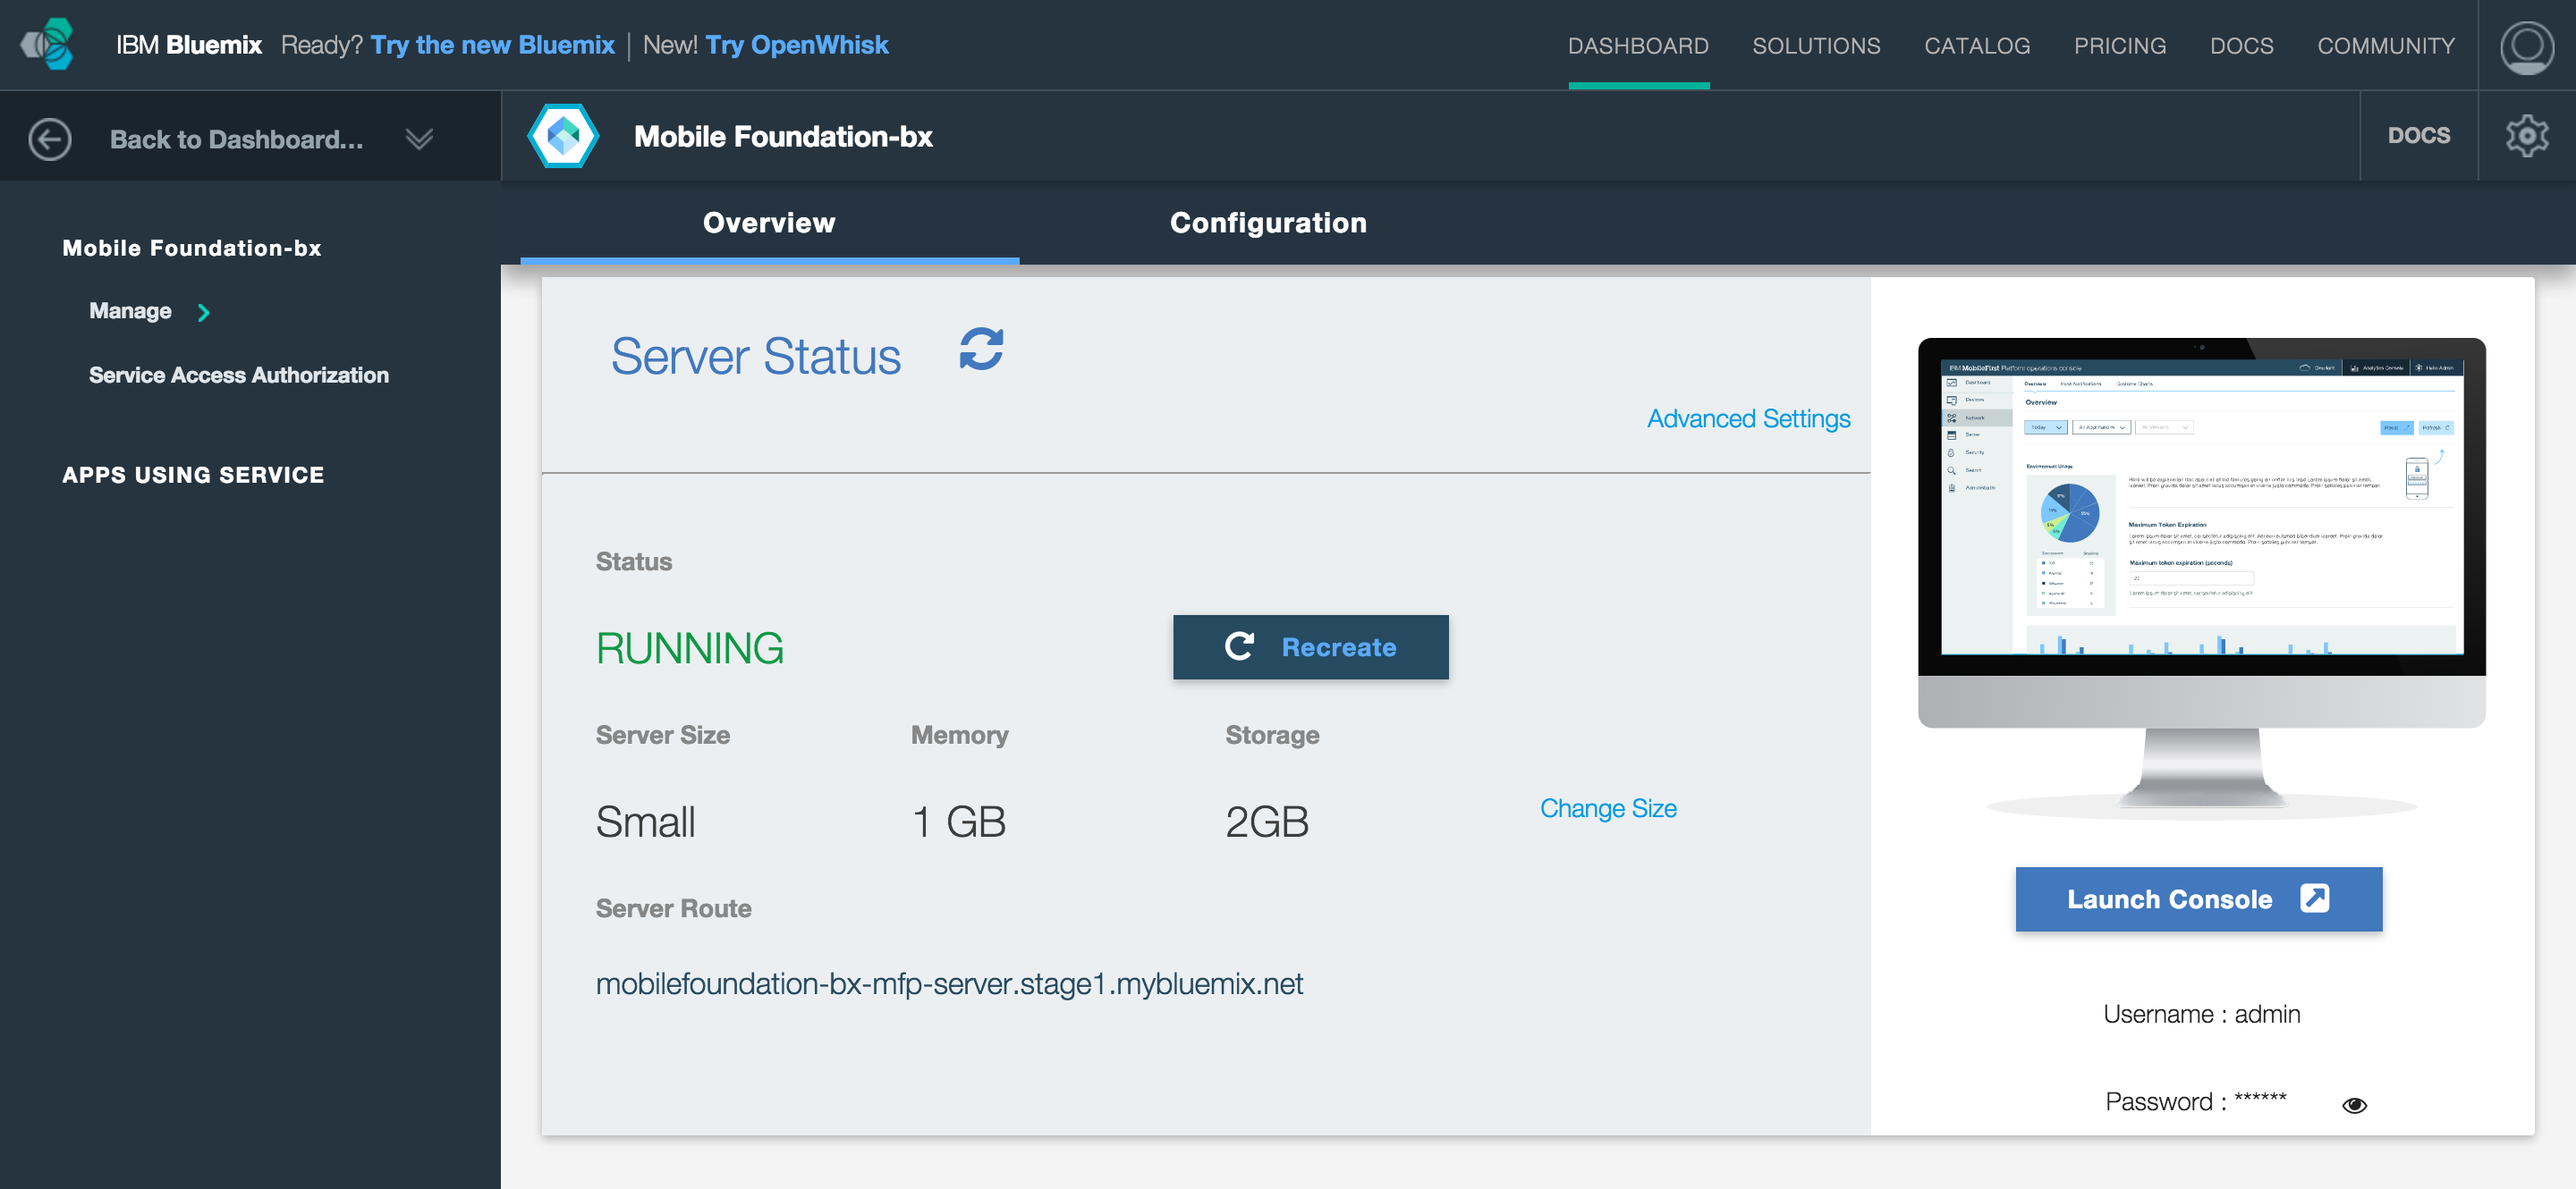
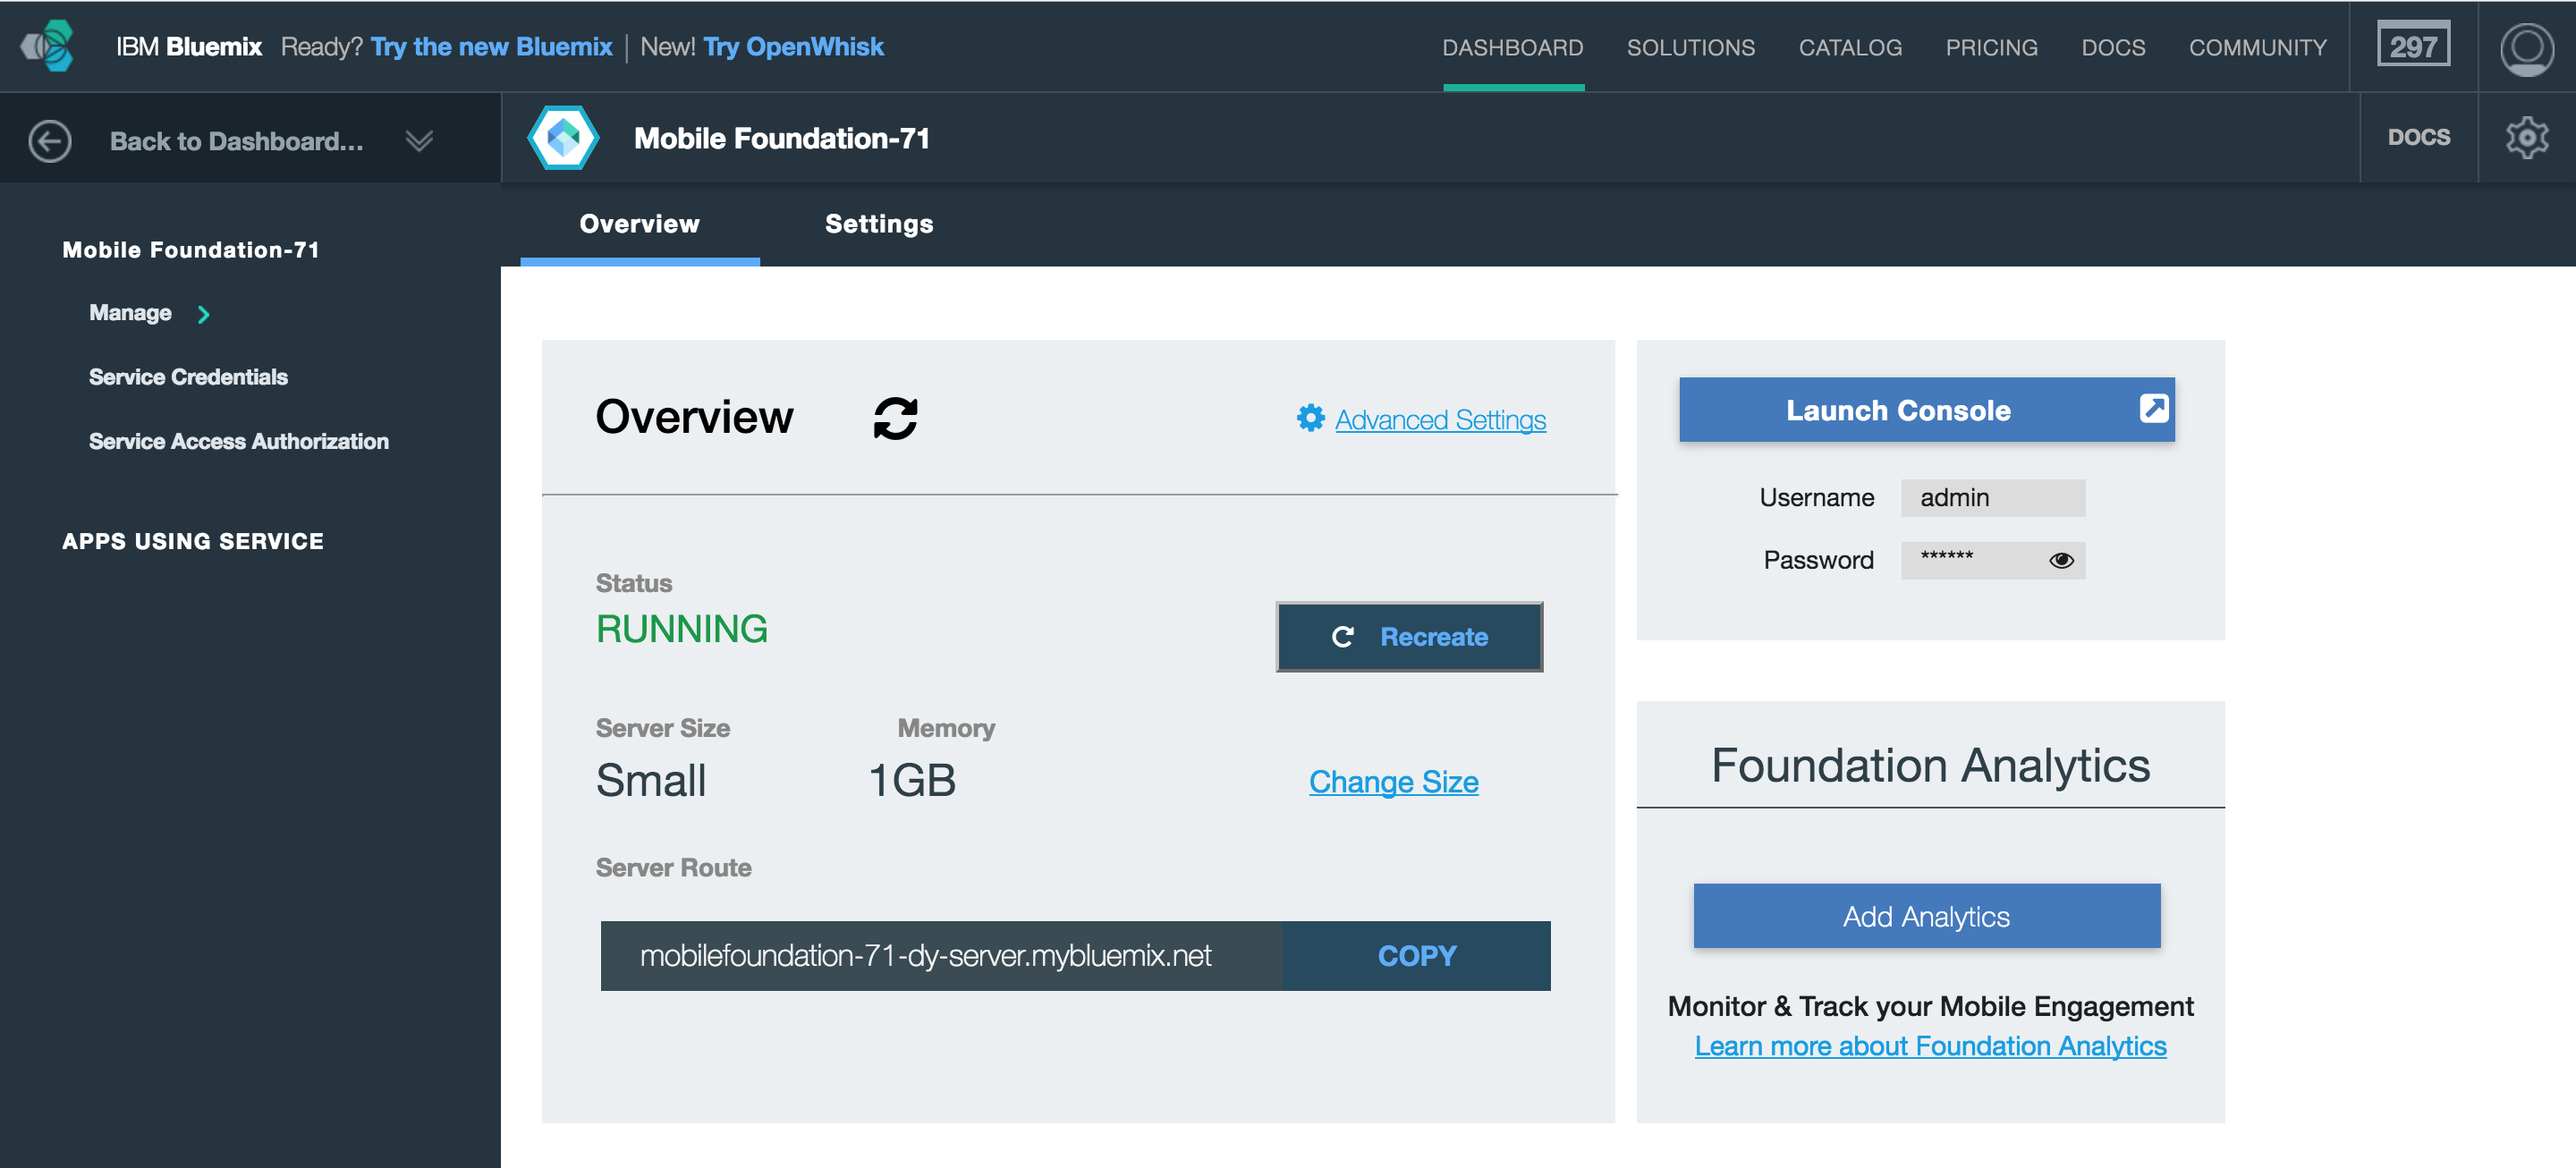
Add instructions how to add mobiefirst analytics

diff --git a/tutorials/en/foundation/8.0/bluemix/using-mobile-foundation/index.md b/tutorials/en/foundation/8.0/bluemix/using-mobile-foundation/index.md
@@ -22,6 +22,7 @@ The Mobile Foundation service offers two plan options:
 * [Using the Mobile Foundation Service](#using-the-mobile-foundation-service)
 * [Server configuration](#server-configuration)
 * [Advanced server configuration](#advanced-server-configuration)
+* [Adding Analytics support](#adding-analytics-support)
 * [Applying MobileFirst Server Fixes ](#applying-mobilefirst-server-fixes)
 * [Further reading](#further-reading)
 
@@ -66,7 +67,10 @@ With the MobileFirst Server now running, you are presented with the following Da
 
 ![Image of Mobile Foundation setup](service-dashboard.png)
 
-Click on **Launch Console** to open the MobileFirst Operations Console.  The use name is "admin" and the password can be revealed by clicking on the "eye" icon.
+Click on **Add Analytics** to add MobileFirst Foundation Operational Analytics support to your server instance.
+Learn more in the [Adding Analytics support](#adding-analytics-support) section.
+
+Click on **Launch Console** to open the MobileFirst Operations Console.  The default user name is "admin" and the password can be revealed by clicking on the "eye" icon.
 
 ![Image of Mobile Foundation setup](dashboard.png)
 
@@ -92,13 +96,24 @@ Through the **Configuration** tab, you can further customize the server instance
 
 ![Image of Mobile Foundation setup](advanced-server-configuration.png)
 
+## Adding Analytics support
+You can add MobileFirst Foundation Operational Analytics support to your Mobile Foundation service instance by clicking on **Add Analytics** from the service's Dashboard page.  
+This action provisions an IBM Container with an instance of MobileFirst Foundation Operational Analytics server.
+
+When using the **Developer** plan this action will also automatically hook the Analytics service instance to your MobileFirst Server instance.  
+When using the **Proffessional 1** plan this action will require additional input from you, such as selecting a storage location.
+
+Once the operation finishes, reload the MobileFirst Operations Console page in your browser to access the Analytics console.  
+
+> Learn more about analytics in the [MobileFirst Operational Analytics category](../../analytics).
+
 ## Applying MobileFirst Server Fixes
 Updates to the Mobile Foundation Bluemix services are applied automatically without a need for human interverntion, other than agreeing to perform the update.  
 When an update is availabe, a banner is displayed in the service's Dashboard page with instructions and action buttons.
 
 ## Further reading
-Now that the MobileFirst Server instance is up and running, you can learn more
+Now that the MobileFirst Server instance is up and running:
 
-* [MobileFirst Operations Console](../../setting-up-your-development-environment/console)
-* Experience MobileFirst Foundation with these [Quick Start tutorials](../../quick-start)
-* Or [read through all available tutorials](../../all-tutorials/)
+* Familiarize with the [MobileFirst Operations Console](../../setting-up-your-development-environment/console).
+* Experience MobileFirst Foundation with these [Quick Start tutorials](../../quick-start).
+* Read through all [available tutorials](../../all-tutorials/).
